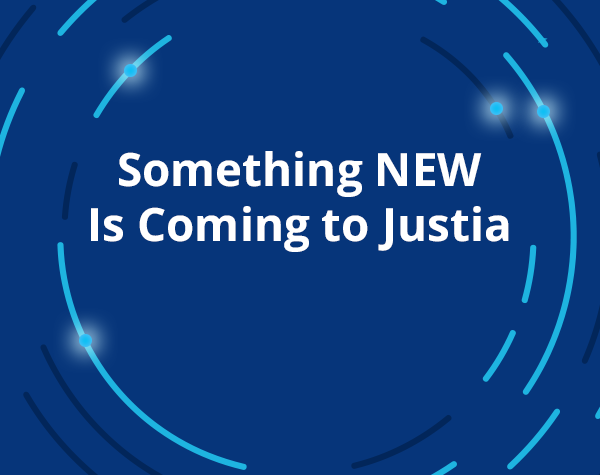
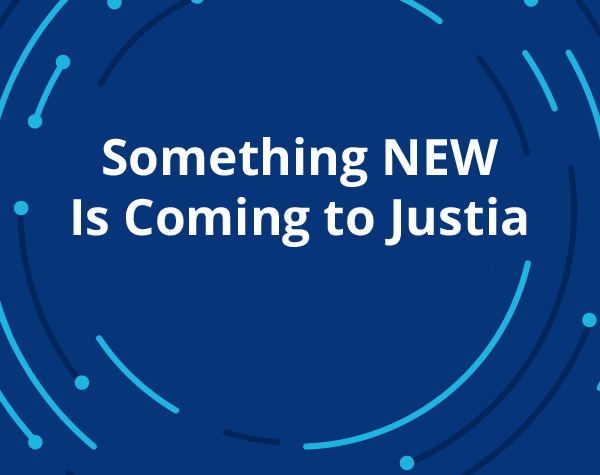
feat: blasts done

diff --git a/dist/connect-teaser-b.html b/dist/connect-teaser-b.html
@@ -144,8 +144,8 @@
           <!--[if gte mso 9]><table border="0" cellpadding="0" cellspacing="0" align="center" width="600"><tr><td align="center" valign="top" width="600"><![endif]-->
           <table border="0" cellpadding="0" cellspacing="0" align="center" width="100%" style="max-width:600px;margin:0 auto;border-bottom:1px solid #efefef" bgcolor="#f4f4f4">
             <tr>
-              <td class="justia03" background="https://justatic.com/v/1/emails/images/newsletters/2021/10/connect-teaser-bg-02.png" style="background:#06357a url(https://justatic.com/v/1/emails/images/newsletters/2021/10/connect-teaser-bg-02.png);background-repeat:no-repeat;background-size:100% auto" bgcolor="#06357a" width="600" align="center" valign="top">
-                <!--[if gte mso 9]><v:rect xmlns:v="urn:schemas-microsoft-com:vml" fill="true" stroke="false" style="width:600px;border:0;outline:0;"><v:fill type="tile" src="https://justatic.com/v/1/emails/images/newsletters/2021/10/connect-teaser-bg-02.png" color="#06357a" /><v:textbox style="mso-fit-shape-to-text:true" inset="0,0,0,0"><![endif]-->
+              <td class="justia03" background="https://justatic.com/v/2/emails/images/newsletters/2021/10/connect-teaser-bg-02.png" style="background:#06357a url(https://justatic.com/v/2/emails/images/newsletters/2021/10/connect-teaser-bg-02.png);background-repeat:no-repeat;background-size:100% auto" bgcolor="#06357a" width="600" align="center" valign="top">
+                <!--[if gte mso 9]><v:rect xmlns:v="urn:schemas-microsoft-com:vml" fill="true" stroke="false" style="width:600px;border:0;outline:0;"><v:fill type="tile" src="https://justatic.com/v/2/emails/images/newsletters/2021/10/connect-teaser-bg-02.png" color="#06357a" /><v:textbox style="mso-fit-shape-to-text:true" inset="0,0,0,0"><![endif]-->
                 <div>
                   <table border="0" cellpadding="0" cellspacing="0" align="center" width="100%">
                     <tr>
@@ -154,15 +154,13 @@
                     <tr>
                       <td class="justia01" style="padding:150px 30px 20px" align="center">
                         <div>
-                          <!--[if gte mso 9]><v:roundrect xmlns:v="urn:schemas-microsoft-com:vml" xmlns:w="urn:schemas-microsoft-com:office:word" href="https://www.justia.com/" style="width:230px;height:50px;v-text-anchor:middle" arcsize="8%" strokecolor="#e2231a" fillcolor="#e2231a"><w:anchorlock /><center style="color:#ffffff;font:bold 16px Arial,sans-serif">Get Notified</center></v:roundrect><![endif]-->
-                          <a href="https://www.justia.com/" style="color:#fff;display:inline-block;border:1px solid #e2231a;border-radius:4px;background-color:#e2231a;width:228px;font:bold 16px/48px Arial,sans-serif;text-align:center;text-decoration:none;-webkit-text-size-adjust:none;mso-hide:all" target="_blank">Get Notified</a>
+                          <!--[if gte mso 9]><v:roundrect xmlns:v="urn:schemas-microsoft-com:vml" xmlns:w="urn:schemas-microsoft-com:office:word" href="https://www.justia.com/" style="width:280px;height:50px;v-text-anchor:middle" arcsize="8%" strokecolor="#e2231a" fillcolor="#e2231a"><w:anchorlock /><center style="color:#ffffff;font:bold 16px Arial,sans-serif">Be the First to Know</center></v:roundrect><![endif]-->
+                          <a href="https://www.justia.com/" style="color:#fff;display:inline-block;border:1px solid #e2231a;border-radius:4px;background-color:#e2231a;width:278px;font:bold 16px/48px Arial,sans-serif;text-align:center;text-decoration:none;-webkit-text-size-adjust:none;mso-hide:all" target="_blank">Be the First to Know</a>
                         </div>
                       </td>
                     </tr>
                     <tr>
-                      <td class="justia04 justia05" style="padding:0 30px 75px" align="center">
-                        <p style="font:16px/1.5 Arial,sans-serif;margin:0;font-size:1.25rem"><a href="#" target="_blank" style="text-decoration:none;color:#fff">#JustiaForAll</a></p>
-                      </td>
+                      <td class="justia04 justia05" style="padding:0 30px 75px" align="center">&nbsp;</td>
                     </tr>
                   </table>
                 </div>

diff --git a/dist/connect-teaser.html b/dist/connect-teaser.html
@@ -144,8 +144,8 @@
           <!--[if gte mso 9]><table border="0" cellpadding="0" cellspacing="0" align="center" width="600"><tr><td align="center" valign="top" width="600"><![endif]-->
           <table border="0" cellpadding="0" cellspacing="0" align="center" width="100%" style="max-width:600px;margin:0 auto;border-bottom:1px solid #efefef" bgcolor="#f4f4f4">
             <tr>
-              <td class="justia03" background="https://justatic.com/v/1/emails/images/newsletters/2021/10/connect-teaser-bg-01.gif" style="background:#06357a url(https://justatic.com/v/1/emails/images/newsletters/2021/10/connect-teaser-bg-01.gif);background-repeat:no-repeat;background-size:100% auto" bgcolor="#06357a" width="600" align="center" valign="top">
-                <!--[if gte mso 9]><v:rect xmlns:v="urn:schemas-microsoft-com:vml" fill="true" stroke="false" style="width:600px;border:0;outline:0;"><v:fill type="tile" src="https://justatic.com/v/1/emails/images/newsletters/2021/10/connect-teaser-bg-01.gif" color="#06357a" /><v:textbox style="mso-fit-shape-to-text:true" inset="0,0,0,0"><![endif]-->
+              <td class="justia03" background="https://justatic.com/v/2/emails/images/newsletters/2021/10/connect-teaser-bg-01.gif" style="background:#06357a url(https://justatic.com/v/2/emails/images/newsletters/2021/10/connect-teaser-bg-01.gif);background-repeat:no-repeat;background-size:100% auto" bgcolor="#06357a" width="600" align="center" valign="top">
+                <!--[if gte mso 9]><v:rect xmlns:v="urn:schemas-microsoft-com:vml" fill="true" stroke="false" style="width:600px;border:0;outline:0;"><v:fill type="tile" src="https://justatic.com/v/2/emails/images/newsletters/2021/10/connect-teaser-bg-01.gif" color="#06357a" /><v:textbox style="mso-fit-shape-to-text:true" inset="0,0,0,0"><![endif]-->
                 <div>
                   <table border="0" cellpadding="0" cellspacing="0" align="center" width="100%">
                     <tr>
